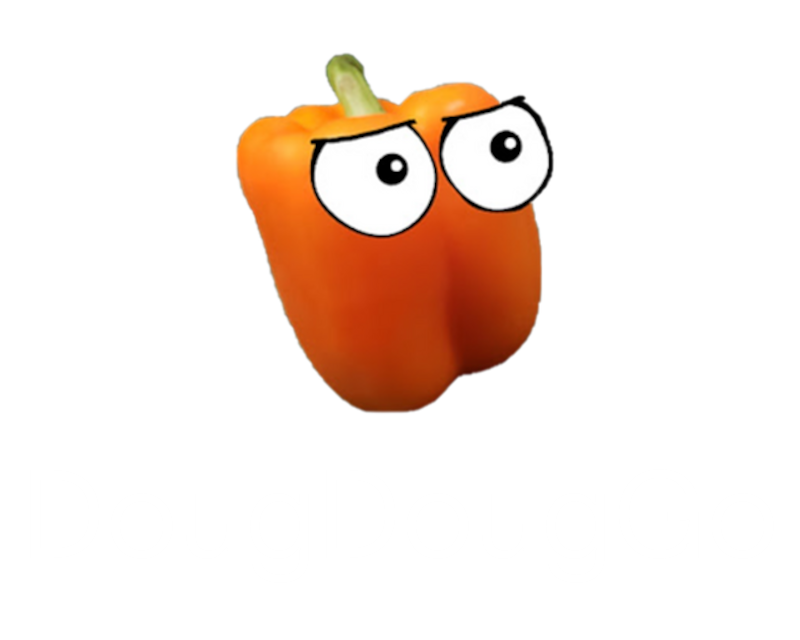
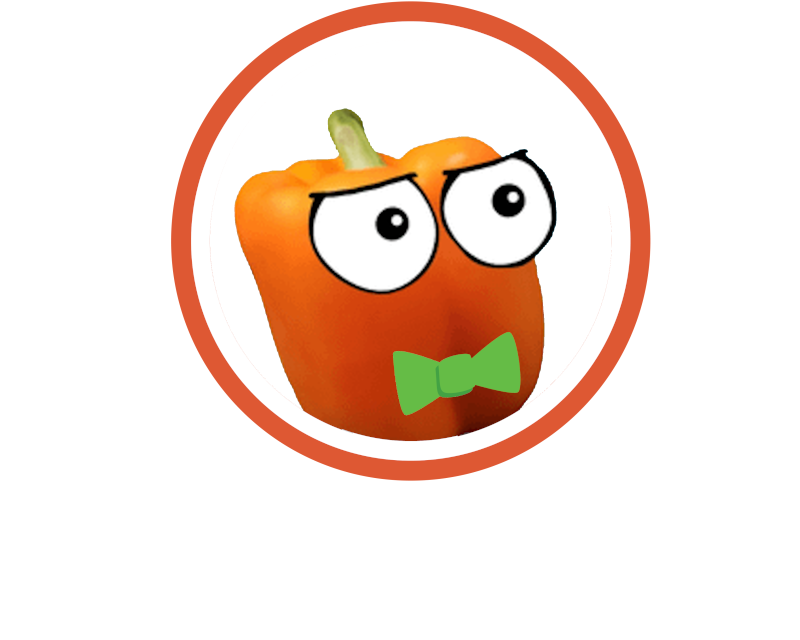
feat(rebrand): by @MagicJinn

Changed region(s): [[0.1875, 0.0, 0.8125, 0.75]]

diff --git a/doug.js b/doug.js
@@ -18,8 +18,12 @@ ike.style.cssText = "float: right; margin-left: 10px"; // adjust the margin as n
 function bellPeper() {
 	const fav = document.createElement("link");
 	fav.rel = "icon";
-	fav.href = chrome.runtime.getURL("assets/pepper.png");
+	fav.href = chrome.runtime.getURL("assets/dougLight.png");
 	document.head.appendChild(fav);
+	if (window.matchMedia("(prefers-color-scheme: dark)").matches) {
+		fav.href = chrome.runtime.getURL("assets/dougDark.png");
+		document.head.appendChild(fav);
+	}
 }
 
 function searchIke() {

diff --git a/README.md b/README.md
@@ -1,5 +1,5 @@
 # DougDougGo
-![DougDougGo](https://i.imgur.com/0xi9Gtg.png)
+![DougDougGo](assets/bigDark.png)
 
 ## **DougDougGo is an extension that adds the famous streamer DougDoug's elements into duckduckgo.com**
 ## Changes Include:
@@ -16,7 +16,7 @@
 
 ## Thanks to
  - DougDoug for inspirement
- - MagicJin being a tester, a supporter, and a nice guy who makes DougDougify(and MrBeastify as
+ - MagicJin being a tester, a supporter, an artist who made the extension icon, and a nice guy who makes DougDougify(and MrBeastify as
    well!)
 
 Issues and suggestions are welcomed
